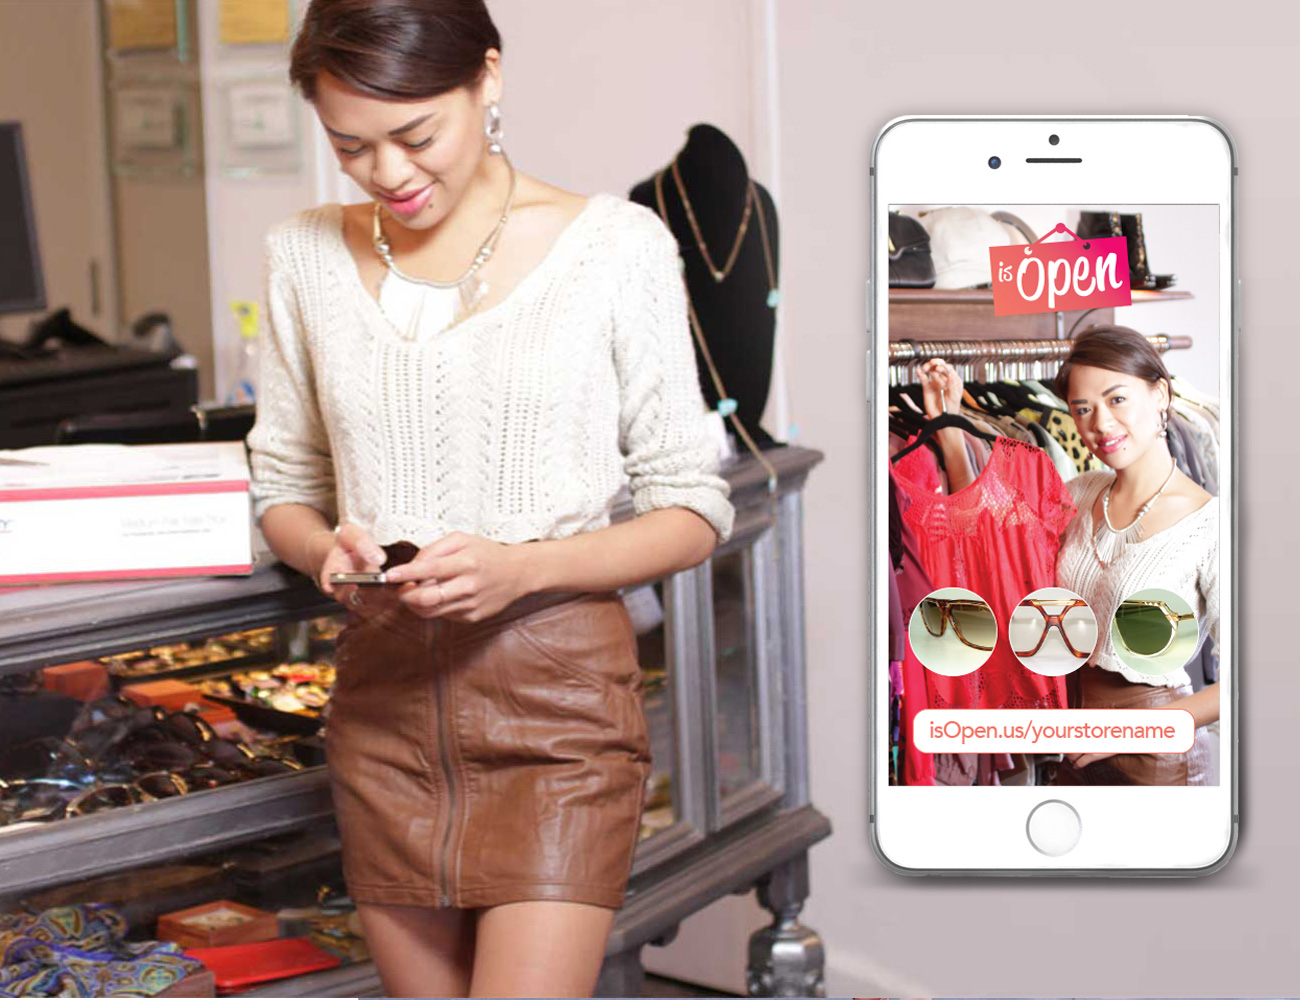
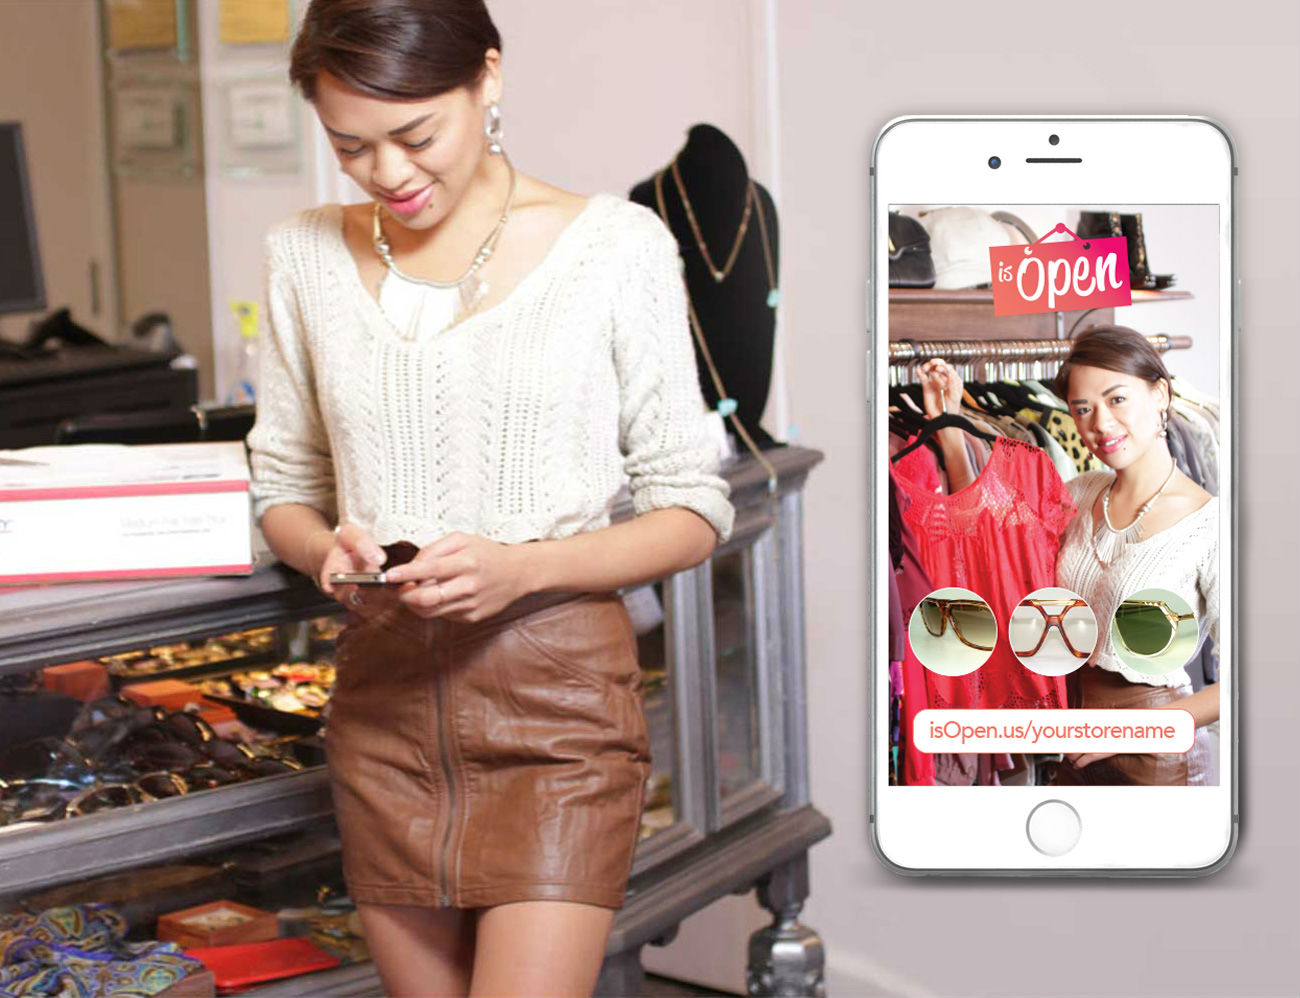
Mo1_with_phone

diff --git a/src/app/components/site/site-main.css b/src/app/components/site/site-main.css
@@ -196,12 +196,10 @@
     padding: 40px 84px;
 }
 
-.land-main section.bg-girl-with-phone {
-    height: 800px;
-    background: url("../../../assets/images/land/main/Mo1_with_phone.jpg");
-    background-repeat: no-repeat;
-    background-size: cover;
-    background-position: center;
+.land-main section.bg-girl-with-phone img {
+    height: auto;
+    width: 100%;
+    margin-bottom: -5px;
 }
 
 .land-main .bg-width {

diff --git a/src/app/components/site/main.html b/src/app/components/site/main.html
@@ -177,6 +177,7 @@
         </section>
         <!-- Image girl section -->
         <section class="bg-girl-with-phone">
+            <img src="assets/images/land/main/Mo1_with_phone.jpg">
         </section>
         <!-- Icons section -->
         <section layout="column" layout-align="center center" class="bg-primary bg-section background-gradient"
